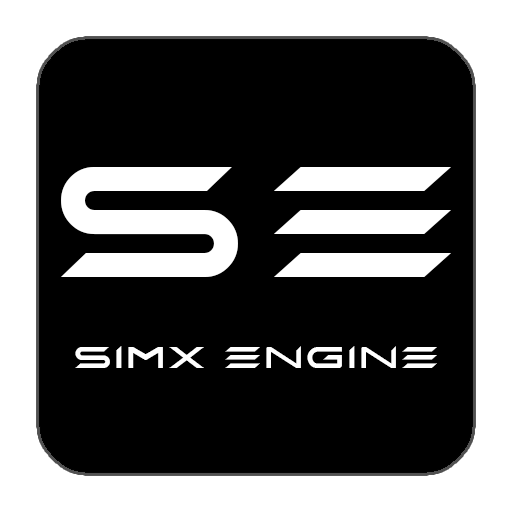
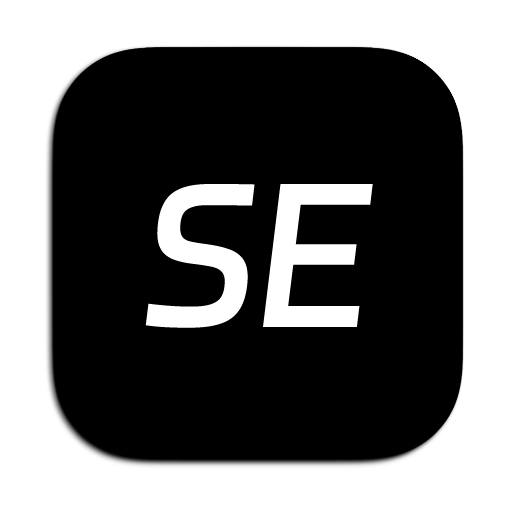
feat(quantum): 重构项目并添加 RESTful 服务功能- 项目名称从 Simx改为 Quantum - 版本号从 0.9.3 升级到 1.0.0 - 版权年份从 2024 更新到 2025 -作者信息从 NJ Labs 更新为 ZhaoShenWen - 新增 server 模块实现 RESTful服务功能 - 更新相关文档和图标

Changed region(s): [[0.0625, 0.0625, 0.9375, 0.9375]]

diff --git a/share/src/entity/restful.rs b/share/src/entity/restful.rs
@@ -1,0 +1,53 @@
+use axum::response::IntoResponse;
+use axum::Json;
+use serde_derive::{Deserialize, Serialize};
+use serde_json::json;
+
+// 标准返回值
+#[derive(Debug, Clone, Serialize, Deserialize)]
+pub struct SysResult<T, E> {
+    pub code: String,
+    pub message: String,
+    pub data: Option<T>,
+    pub error: Option<E>,
+    pub succeed: bool,
+}
+impl<T: serde::Serialize, E: serde::Serialize> IntoResponse for SysResult<T, E> {
+    fn into_response(self) -> axum::response::Response {
+        let val = json!(self); // 将 ApiResult 转换为 JSON 格式
+        Json(val).into_response() // 将 JSON 响应转换为 Axum 的响应格式
+    }
+}
+
+impl<T, E> SysResult<T, E> {
+    // 成功
+    pub fn ok(data: T) -> Self {
+        Self {
+            code: "A0000".to_string(),
+            message: "success".to_string(),
+            data: Some(data),
+            error: None,
+            succeed: true,
+        }
+    }
+    // 警告
+    pub fn warn(error: E) -> Self {
+        Self {
+            code: "W0000".to_string(),
+            message: "warning".to_string(),
+            data: None,
+            error: Some(error),
+            succeed: false,
+        }
+    }
+    // 失败
+    pub fn fail(error: E) -> Self {
+        Self {
+            code: "F0000".to_string(),
+            message: "error".to_string(),
+            data: None,
+            error: Some(error),
+            succeed: false,
+        }
+    }
+}

diff --git a/server/src/restful/basic.rs b/server/src/restful/basic.rs
@@ -1,0 +1,20 @@
+use crate::restful::handler;
+use crate::restful::handler::test::test;
+use axum::routing::{get, post};
+use axum::Router;
+
+pub async fn restful_serve() {
+    // 构建监听路由
+    let app = Router::new()
+        // 直接调用根目录视为测试
+        .route("/engine/test", get(test))
+        // 停止服务
+        .route("/engine/stop", post(handler::engine::stop));
+    // 执行指定蓝图（本地路径或直接蓝图文件）
+
+    // 执行特定处理器
+
+    // 默认绑定到 0.0.0.0:9898
+    let listener = tokio::net::TcpListener::bind("0.0.0.0:9828").await.unwrap();
+    axum::serve(listener, app).await.unwrap();
+}

diff --git a/runner/src/main.rs b/runner/src/main.rs
@@ -12,17 +12,12 @@ async fn main() {    // 读取cron配置文件
     if args.len() > 1 {
         // 解析输入参数
         match args[1].as_str() {
-            "serve" => serve().await.unwrap(),
             "run" => run().await,
-            _ => run().await,
+            _ => serve().await.unwrap(),
         }
         return;
-    } else {
-        // 同步运行监听
-        serve().await.unwrap();
     }
     // 程序运行结束后的清理动作
     // 注意，用户手动结束进程不会触发此方法
     clean();
 }
-

diff --git a/library/src/lib.rs b/library/src/lib.rs
@@ -1,7 +1,7 @@
 use engine_common::engine::kernel::{clean, init};
 
 // 运行流程
-#[no_mangle]
+#[unsafe(no_mangle)]
 #[allow(improper_ctypes_definitions)]
 pub extern "C" fn run() -> Result<(), String> {
     let future = async {
@@ -14,7 +14,7 @@ pub extern "C" fn run() -> Result<(), String> {
 }
 
 // 运行监听（服务）
-#[no_mangle]
+#[unsafe(no_mangle)]
 #[allow(improper_ctypes_definitions)]
 pub extern "C" fn serve() -> Result<(), String> {
     let future = async {

diff --git a/server/src/main.rs b/server/src/main.rs
@@ -1,0 +1,10 @@
+use engine_common::engine::kernel::init;
+
+mod restful;
+
+#[tokio::main]
+async fn main() {
+    // 引擎运行前的准备和初始化动作
+    init();
+    restful::basic::restful_serve().await;
+}

diff --git a/server/src/restful/handler/test.rs b/server/src/restful/handler/test.rs
@@ -1,0 +1,5 @@
+use engine_share::entity::restful::SysResult;
+
+pub async fn test() -> SysResult<&'static str, String> {
+    SysResult::ok("hello client")
+}

diff --git a/share/src/entity/mod.rs b/share/src/entity/mod.rs
@@ -5,3 +5,4 @@ pub mod config;
 pub mod exception;
 pub mod services;
 pub mod workspace;
+pub mod restful;

diff --git a/server/src/restful/handler/engine.rs b/server/src/restful/handler/engine.rs
@@ -1,0 +1,4 @@
+pub async fn stop() {
+    // 结束进程
+    std::process::exit(0);
+}

diff --git a/server/src/restful/handler/mod.rs b/server/src/restful/handler/mod.rs
@@ -1,0 +1,2 @@
+pub mod test;
+pub mod engine;

diff --git a/server/src/restful/mod.rs b/server/src/restful/mod.rs
@@ -1,0 +1,2 @@
+pub mod basic;
+mod handler;
